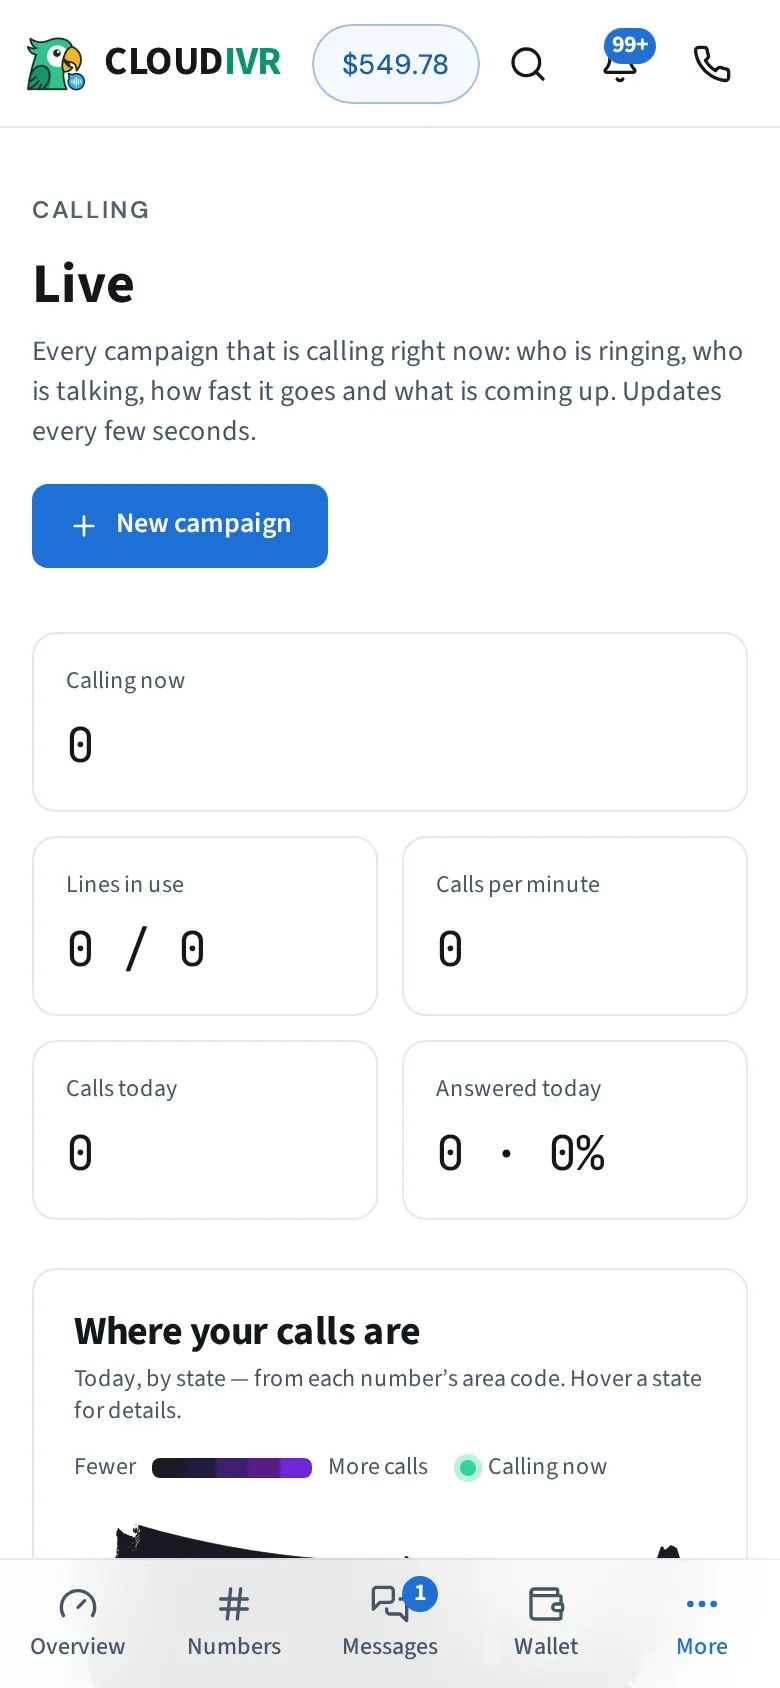
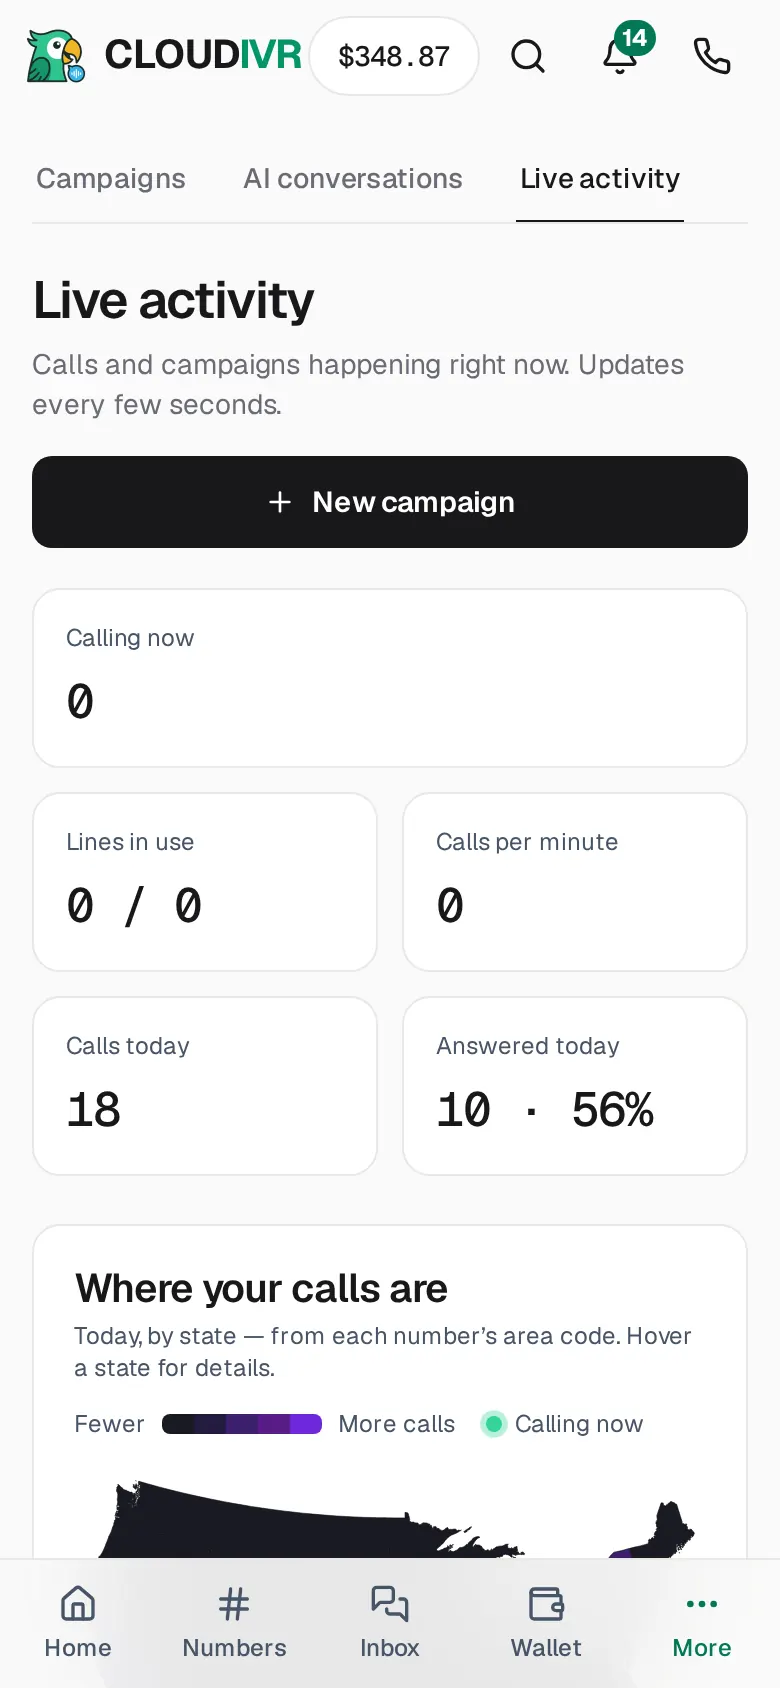
I have implemented fixes for both issues and checked them via screenshots to ensure accuracy. However, this was not a full test run. Please publish to update the live site and test the changes in your environment.
- **Screenshots**: Updated app screens on public pages have been recaptured on desktop and phone views. The Sales tab and live map display demo campaign data (seeded for capture and then removed), with test names, preview badges, and real numbers tidied.
- **Phone hero**: The sticky bar with "Free test call" and "Get number" now appears once the hero buttons scroll off screen. The hero is slightly shorter (about 1,150px, down from 1,290px), remaining more than one screen tall.

- Next Action Items:
  - **Channel Post Refresh**: Rebuild Telegram channel post images from the new landing page and app design
  - **Compact Phone Hero**: Adjust the phone demo to sit beside the headline on small screens so the hero fits on one screen
  - **Live Call Counter**: Add a live "calls answered today" ticker in the trust band using platform data
  - **Customer Stories**: Add real customer quotes with names and photos to each audience tab as available

Could you please test these updates and let me know if everything works as expected or if further investigation is needed?

Emergent-Commit-Key: a419e907b6a44c1dd7aaf40a83a3499e42464622c4a9528f51b147764bf26ab8

diff --git a/frontend/src/cloudivr/pages/landing/Hero.js b/frontend/src/cloudivr/pages/landing/Hero.js
@@ -15,14 +15,14 @@ const SAFE = ['No card needed', '60-second test call', 'Live in minutes'];
 export function OneHero() {
   const start = useStart();
   return (
-    <section id="product-hero" className="lx-hero relative pt-28 md:pt-36 pb-24 md:pb-32" data-testid="product-hero">
+    <section id="product-hero" className="lx-hero relative pt-24 md:pt-36 pb-20 md:pb-32" data-testid="product-hero">
       <div className="lx-aurora" aria-hidden="true" /><div className="lx-grid" aria-hidden="true" /><div className="lx-grain" aria-hidden="true" />
-      <div className="relative max-w-7xl mx-auto px-6 md:px-8 grid lg:grid-cols-[minmax(0,1.1fr)_minmax(0,.9fr)] gap-12 lg:gap-8 items-center">
+      <div className="relative max-w-7xl mx-auto px-6 md:px-8 grid lg:grid-cols-[minmax(0,1.1fr)_minmax(0,.9fr)] gap-8 lg:gap-8 items-center">
         <div>
           <div className="lx-chip civr-rise" data-testid="hero-kicker"><span className="lx-live" aria-hidden="true" />AI receptionist on every plan</div>
           <h1 className="civr-l-h text-4xl sm:text-5xl lg:text-6xl text-slate-950 mt-6 civr-rise civr-d1" data-testid="hero-title">One business number, <span className="lx-grad">wherever you work.</span></h1>
           <p className="max-w-xl text-base md:text-lg text-slate-600 mt-6 leading-relaxed civr-rise civr-d2" data-testid="hero-subtitle">Never miss a customer call. A menu or an AI receptionist answers, routes and takes messages around the clock, on a number for calls, texts or fax.</p>
-          <div className="mt-10 flex flex-col sm:flex-row gap-3 civr-rise civr-d3">
+          <div className="mt-8 md:mt-10 flex flex-col sm:flex-row gap-3 civr-rise civr-d3">
             <a href={`${cp()}#try`} onClick={(e) => goTo('#try', e)} className="civr-l-btn civr-l-btn-hero px-8" data-testid="hero-try-cta"><PhoneCall className="w-5 h-5" aria-hidden="true" />Make a free test call</a>
             <Link to={start()} className="civr-l-btn civr-l-btn-ghost civr-l-btn-hero px-8" data-testid="hero-signup-cta">Get your number<ArrowRight className="w-5 h-5" aria-hidden="true" /></Link>
           </div>

diff --git a/frontend/src/cloudivr/pages/landing/lx.css b/frontend/src/cloudivr/pages/landing/lx.css
@@ -83,6 +83,6 @@
 @keyframes lxPop { from { opacity: 0; transform: translateY(8px) scale(.97); } to { opacity: 1; transform: none; } }
 @keyframes lxBar { 0% { width: 8%; } 60%, 100% { width: var(--w, 80%); } }
 @keyframes lxScan { 0% { top: -22px; } 100% { top: 108px; } }
-@media (max-width: 1023px) { .civr .civr-np .lx-stage { min-height: 0; padding: 8px 0; } .civr .civr-np .lx-phone { height: 480px; } .civr .civr-np .lx-float-chip { display: none; } }
+@media (max-width: 1023px) { .civr .civr-np .lx-stage { min-height: 0; padding: 8px 0; } .civr .civr-np .lx-phone { height: 400px; width: min(260px, 72vw); } .civr .civr-np .lx-ringwrap { margin-top: 28px; } .civr .civr-np .lx-float-chip { display: none; } }
 @media (prefers-reduced-motion: reduce) { .civr .civr-np .lx-phone, .civr .civr-np .lx-float-chip, .civr .civr-np .lx-ring, .civr .civr-np .lx-live, .civr .civr-np .lx-bar > i, .civr .civr-np .lx-page::after, .civr .civr-np .lx-pop { animation: none; } .civr .civr-np .lx-bar > i { width: var(--w, 80%); } .civr .civr-np .lx-tile:hover { transform: none; } }
 .civr .civr-np .civr-faq-item[open] .civr-faq-chevron { transform: rotate(180deg); background: none; }

diff --git a/frontend/src/cloudivr/pages/landing/StickyCta.js b/frontend/src/cloudivr/pages/landing/StickyCta.js
@@ -10,7 +10,7 @@ export function StickyCta() {
   const { account } = useCivrAuth();
   const [show, setShow] = useState(false);
   useEffect(() => {
-    const hero = document.querySelector('[data-testid="product-hero"]');
+    const hero = document.querySelector('[data-testid="hero-try-cta"]') || document.querySelector('[data-testid="product-hero"]');
     const hide = ['try-section', 'final-cta', 'landing-footer'].map(id => document.querySelector(`[data-testid="${id}"]`)).filter(Boolean);
     if (!hero || typeof IntersectionObserver === 'undefined') return undefined;
     let heroOut = false; const covering = new Set();

diff --git a/scripts/landing_shots.py b/scripts/landing_shots.py
@@ -11,14 +11,25 @@ PAGES = [
     ('messages', f'/app/messages?number={q(MN)}&contact={q("+18885550134")}', None, None),
     ('numbers', '/app/numbers', '[data-testid="mobile-lines"]', None),
     ('esim', '/app/esim', '[data-testid="esim-list"], [data-testid^="esim-line-"]', 'Show install QR'),
-    ('ivr', f'/app/numbers/{q("+13346972125")}?tab=ivr', 'text=Keypad menu (IVR)', None),
+    ('ivr', f'/app/numbers/{q("+13346970100")}?tab=ivr', 'text=Keypad menu (IVR)', None),
     ('overview', '/app', None, None),
-    ('campaigns', '/app/campaigns', None, None),
+    ('campaigns', '/app/campaigns/seed-live-running', None, None),
     ('live', '/app/live', None, None),
 ]
 HIDE = """
 document.addEventListener('DOMContentLoaded', () => { const st = document.createElement('style'); st.textContent = '[aria-label="Preview mode notice"],[data-testid="support-chat-toggle"],[data-testid="dashboard-channel-card"],.civr-offer{display:none!important}'; document.head.appendChild(st); });
 setInterval(() => document.querySelectorAll('.civr-card').forEach(c => { if (/how is CloudIVR so far/i.test(c.textContent)) c.style.display = 'none'; }), 300);
+setInterval(() => {
+  document.querySelectorAll('.civr-pill-warn, .civr-pill').forEach(e => { if (/^preview$/i.test(e.textContent.trim())) e.remove(); });
+  document.querySelectorAll('div,li').forEach(e => { if (/^Hot lead:/.test(e.textContent.trim()) && e.textContent.length < 120) e.style.display = 'none'; });
+  const map = window.__m || (window.__m = new Map());
+  const fake = (m) => { if (/^\+1\d{3}555/.test(m)) return m; if (!map.has(m)) map.set(m, '+1415555' + String(182 + map.size * 7).padStart(4, '0')); return map.get(m); };
+  const w = document.createTreeWalker(document.body, NodeFilter.SHOW_TEXT);
+  for (let n = w.nextNode(); n; n = w.nextNode()) {
+    const t = n.nodeValue.replace(/\+1\d{10}/g, fake).replace(/\\balice\\b/gi, 'Maya').replace(/Preview mode:[^.]*\.?( use \d+\.)?/i, '').replace(/ — demo/g, '');
+    if (t !== n.nodeValue) n.nodeValue = t;
+  }
+}, 300);
 """
 SIZES = {'desktop': dict(viewport={'width': 1440, 'height': 900}, device_scale_factor=1), 'phone': dict(viewport={'width': 390, 'height': 844}, device_scale_factor=2, is_mobile=True, has_touch=True)}
 
@@ -46,7 +57,7 @@ async def main():
                     if await btn.count(): await btn.click(); await pg.wait_for_timeout(1500)
                 if scroll:
                     el = pg.locator(scroll).first
-                    if await el.count(): await el.evaluate('(e, b) => e.scrollIntoView({block: b})', 'start'); await pg.evaluate('window.scrollBy(0, %d)' % (330 if name == 'ivr' else -90))
+                    if await el.count(): await el.evaluate('(e, b) => e.scrollIntoView({block: b})', 'start'); await pg.evaluate('window.scrollBy(0, %d)' % (-90))
                 await pg.wait_for_timeout(600)
                 png = await pg.screenshot(full_page=False)
                 Image.open(io.BytesIO(png)).convert('RGB').save(f'{OUT}/{name}-{size}.webp', 'WEBP', quality=78, method=6)

diff --git a/memory/PRD.md b/memory/PRD.md
@@ -680,4 +680,5 @@ Per-minute/usage rates appear ONLY on /pricing (UsageRates). In-app and landing 
 - Landing plans = one row of cards; tabs/eSIM/fax/texting detail on /pricing (old `#pricing-<tab>` links redirect there; PricingPage listens to `civr-pricing-tab`).
 - FAQ added: countries, documents. Porting NOT added (unconfirmed offer). Cookie banner slimmer on phones.
 - channel-ads-studio plan-suggest captures now use `/pricing`.
-- Open: audience-tab screenshots (public/cloudivr/shots) still show the pre-redesign app; mobile hero is ~1290px tall so sticky bar rarely shows; old unused landing files (ProductHero hero, HeroTabs, WhoFor on landing, Facts/Statement/Coverage) not cleaned up.
+- 2026-11-18 follow-up: app shots in public/cloudivr/shots recaptured from the redesigned app via `node scripts/seed_civr_live_demo.js` → `python3 scripts/landing_shots.py` → `seed --clean` (script now tidies preview pills, test numbers/names, toasts; campaigns shot = seeded demo campaign). Mobile hero shortened (1290→1154px) and sticky bar now appears once the hero buttons scroll away. Self-checked by screenshot only.
+- Open: old unused landing files (ProductHero hero, HeroTabs, WhoFor on landing, Facts/Statement/Coverage) not cleaned up.
